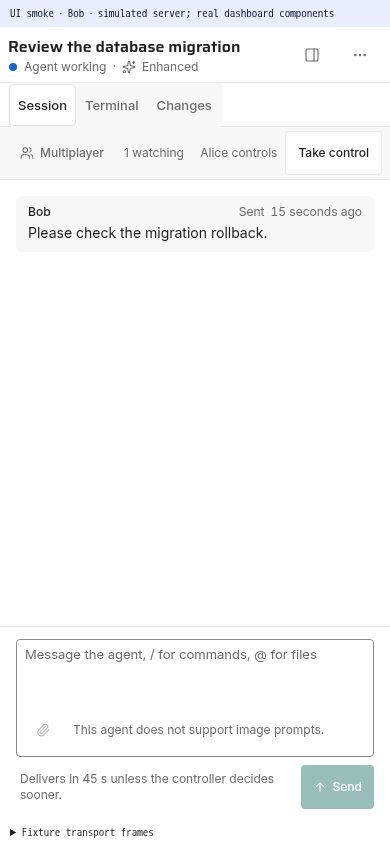
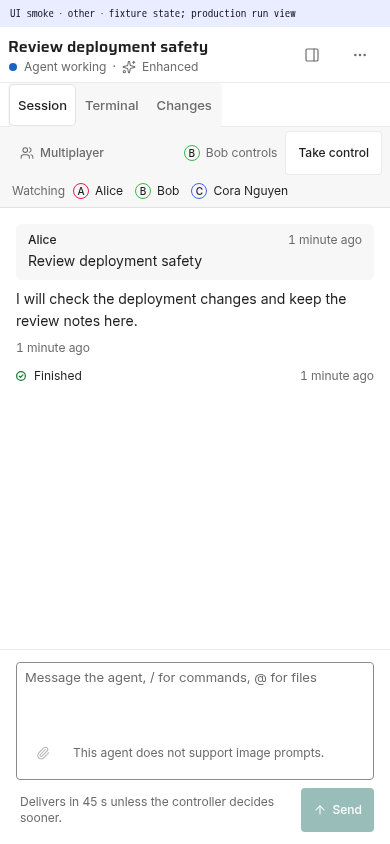
fix(dashboard): show people in enhanced run controls
Controller identity was reduced to status text and watchers to a count.
Show their names and existing member avatars directly in the top bar,
including the local controller's name.

Keep long rosters scrollable without hiding names in Details or crowding
the control actions.

diff --git a/web/src/routes/run/multiplayer-controls.tsx b/web/src/routes/run/multiplayer-controls.tsx
@@ -1,5 +1,6 @@
 import { Shield, Users } from '@/components/icons'
 import { connectionLabel } from '@/components/shell/connection'
+import { Avatar } from '@/components/ui/avatar'
 import { Button } from '@/components/ui/button'
 import { allowed } from '@/lib/permissions'
 import type { AgentTerminal } from '@/routes/run/agent-terminal'
@@ -32,6 +33,7 @@ export function MultiplayerControls({ run, agent, onPeople }: {
   onPeople: () => void
 }) {
   const self = useSelf()
+  const members = useStore((s) => s.members)
   const summary = usePresenceSummary(run, agent)
   const status = useStore((s) => s.roomStatus[run.id])
   const presenceError = useStore((s) => s.roomStatusError[run.id])
@@ -41,30 +43,52 @@ export function MultiplayerControls({ run, agent, onPeople }: {
   const stream = session?.stream ?? 'connecting'
   const controlError = session?.controlError ?? session?.takeoverError
   const connection = stream === 'refused' ? 'Offline' : connectionLabel[stream]
+  const controllerID = agent.localControl ? self.id : status?.controller?.member_id
+  const controller = controllerID ? members[controllerID] : undefined
+  const controllerName = controller?.display_name ?? controllerID
+  const controllerSummary = controllerID === self.id && controllerName ? `${controllerName} · ${summary}` : summary
+  const staleWatchers = stream !== 'live' || Boolean(presenceError)
 
   return (
-    <div role="group" aria-label="Multiplayer controls" className="shrink-0 border-b border-seam bg-chrome px-2 py-1">
+    <div role="group" aria-label="Multiplayer controls" className="@container/multiplayer shrink-0 border-b border-seam bg-chrome px-2 py-1">
       <div className="flex min-w-0 flex-wrap items-center gap-x-2 gap-y-1">
         <Button size="sm" variant="ghost" hint="See people and notes for this run" onClick={onPeople}>
           <Users />
           Multiplayer
         </Button>
-        {status && !presenceError && <span className="text-ui-sm text-muted">{status.watchers.length} watching</span>}
-        {run.protected && <span className="inline-flex items-center gap-1 text-ui-sm text-muted"><Shield />Protected</span>}
-        <span className="ml-auto min-w-0 break-words text-ui-sm text-muted">
-          {agent.steerable ? summary : agent.starting ? 'Starting…' : 'Run finished · read-only'}
-        </span>
-        {agent.steerable && stream !== 'live' && <span className="text-ui-sm text-state-needs-you">{connection}</span>}
-        {agent.steerable && maySteer && (
-          <ControlButton
-            ownsControl={agent.localControl}
-            unavailable={agent.controlUnavailable || Boolean(run.switching)}
-            onTakeControl={agent.session.takeControl}
-            onReleaseControl={agent.session.releaseControl}
-            takeover={agent.takeover.interaction}
-          />
-        )}
-        {agent.steerable && !maySteer && <span className="text-ui-sm text-muted">View only</span>}
+        <div className="order-last flex w-full min-w-0 items-center gap-2 px-1 py-1 text-ui-sm @[48rem]/multiplayer:order-none @[48rem]/multiplayer:w-auto @[48rem]/multiplayer:flex-1">
+          <span className="shrink-0 text-muted">Watching{status && staleWatchers && ' (last known)'}</span>
+          <div role="group" aria-label="Run watchers" tabIndex={status?.watchers.length ? 0 : undefined} className="flex min-w-0 flex-1 touch-pan-x items-center gap-3 overflow-x-auto whitespace-nowrap">
+            {status ? status.watchers.length > 0 ? status.watchers.map((id) => {
+              const member = members[id]
+              const name = member?.display_name ?? id
+              return (
+                <span key={id} className="inline-flex shrink-0 items-center gap-1.5">
+                  <Avatar name={name} color={member?.color} />
+                  <span>{name}</span>
+                </span>
+              )
+            }) : <span className="text-muted">Nobody</span> : <span className="text-muted">{presenceError ? 'Unavailable' : 'Checking…'}</span>}
+          </div>
+        </div>
+        <div className="ml-auto flex min-w-0 flex-1 items-center justify-end gap-2 @[48rem]/multiplayer:flex-initial">
+          {run.protected && <span className="inline-flex items-center gap-1 text-ui-sm text-muted"><Shield />Protected</span>}
+          <div role="group" aria-label="Run controller" className="flex min-w-0 items-center gap-1.5 text-ui-sm text-muted">
+            {agent.steerable && controllerID && <Avatar name={controllerName ?? controllerID} color={controller?.color} />}
+            <span className="min-w-0 break-words">{agent.steerable ? controllerSummary : agent.starting ? 'Starting…' : 'Run finished · read-only'}</span>
+          </div>
+          {agent.steerable && stream !== 'live' && <span className="text-ui-sm text-state-needs-you">{connection}</span>}
+          {agent.steerable && maySteer && (
+            <ControlButton
+              ownsControl={agent.localControl}
+              unavailable={agent.controlUnavailable || Boolean(run.switching)}
+              onTakeControl={agent.session.takeControl}
+              onReleaseControl={agent.session.releaseControl}
+              takeover={agent.takeover.interaction}
+            />
+          )}
+          {agent.steerable && !maySteer && <span className="text-ui-sm text-muted">View only</span>}
+        </div>
       </div>
       {controlError && <p role="alert" className="px-1 py-1 text-ui-sm text-state-failed">Control request failed: {controlError}</p>}
       {session?.streamError && <p role="status" className="px-1 py-1 text-ui-sm text-state-failed">{session.streamError}</p>}

diff --git a/web/e2e/run-session.spec.ts b/web/e2e/run-session.spec.ts
@@ -109,6 +109,14 @@ test('Enhanced multiplayer keeps moderated messages, deliberate release and time
     const takeControl = bobControls.getByRole('button', { name: 'Take control', exact: true })
     await expect(bobControls).toContainText(`${aliceMember.display_name} controls`)
     await expect(takeControl).toHaveAttribute('aria-disabled', 'false')
+    await expect(aliceControls.getByRole('group', { name: 'Run controller' }).getByRole('img', { name: aliceMember.display_name })).toBeVisible()
+    await expect(aliceControls.getByRole('group', { name: 'Run controller' })).toContainText(aliceMember.display_name)
+    await expect(bobControls.getByRole('group', { name: 'Run controller' }).getByRole('img', { name: aliceMember.display_name })).toBeVisible()
+    const watchers = bobControls.getByRole('group', { name: 'Run watchers' })
+    for (const name of [aliceMember.display_name, bobMember.display_name]) {
+      await expect(watchers.getByText(name, { exact: true })).toBeVisible()
+      await expect(watchers.getByRole('img', { name, exact: true })).toBeVisible()
+    }
 
     for (const controls of [aliceControls, bobControls]) {
       await controls.getByRole('button', { name: 'Multiplayer', exact: true }).click()
@@ -191,6 +199,8 @@ test('Enhanced multiplayer keeps moderated messages, deliberate release and time
     await expect(takeover.getByRole('status')).toContainText('Control transfers automatically')
     await page.screenshot({ path: testInfo.outputPath('enhanced-takeover-review.png') })
     await expect(bobControls.getByRole('button', { name: 'Release', exact: true })).toBeVisible({ timeout: 15_000 })
+    await expect(bobControls.getByRole('group', { name: 'Run controller' }).getByRole('img', { name: bobMember.display_name })).toBeVisible()
+    await expect(bobControls.getByRole('group', { name: 'Run controller' })).toContainText(bobMember.display_name)
     await expect(aliceControls).toContainText(`${bobMember.display_name} controls`)
     await expect(aliceControls.getByRole('button', { name: 'Take control', exact: true })).toBeVisible()
     await bobControls.getByRole('button', { name: 'Release', exact: true }).click()
@@ -209,6 +219,8 @@ test('Enhanced multiplayer keeps moderated messages, deliberate release and time
     await bobPage.setViewportSize({ width: 390, height: 844 })
     await expect(bobControls.getByRole('button', { name: 'Multiplayer', exact: true })).toBeVisible()
     await expect(takeControl).toBeVisible()
+    await expect(watchers.getByText(bobMember.display_name, { exact: true })).toBeVisible()
+    await expect(watchers.getByRole('img', { name: bobMember.display_name, exact: true })).toBeVisible()
     const bounds = await bobControls.boundingBox()
     expect(bounds).not.toBeNull()
     expect(bounds!.x + bounds!.width).toBeLessThanOrEqual(390)

diff --git a/web/src/routes/run/session.test.tsx b/web/src/routes/run/session.test.tsx
@@ -335,6 +335,20 @@ describe('the Enhanced session view', () => {
 })
 
 describe('Enhanced multiplayer controls', () => {
+  it('keeps the controller identity tied to the acknowledged lease while presence catches up', async () => {
+    vi.spyOn(api, 'runRoomStatus').mockResolvedValue(occupiedRoom)
+    open()
+    const session = acpSocket().open({ has_control: true, control_generation: 4 })
+    const controller = within(await screen.findByRole('group', { name: 'Run controller' }))
+    expect(controller.getByRole('img', { name: alice.display_name })).toBeDefined()
+    expect(controller.queryByRole('img', { name: bob.display_name })).toBeNull()
+    expect(controller.getByText(/Alice.*You control/)).toBeDefined()
+    session.send({ type: 'control', has_control: false, control_generation: 4, revocation_reason: 'takeover' })
+    expect(await controller.findByRole('img', { name: bob.display_name })).toBeDefined()
+    expect(controller.queryByRole('img', { name: alice.display_name })).toBeNull()
+    expect(screen.getByRole('button', { name: 'Take control' })).toBeDefined()
+  })
+
   it('releases the acknowledged lease without closing the session and remains reachable on Terminal', async () => {
     const view = open()
     const session = acpSocket().open({ has_control: true, control_generation: 4 })

diff --git a/docs/dashboard-frontend.md b/docs/dashboard-frontend.md
@@ -1356,12 +1356,17 @@ with the composer focused the header keeps only the title line.
 
 Enhanced runs render `MultiplayerControls` (`routes/run/multiplayer-controls.tsx`)
 below the view switch at frame level, so Session, Terminal, Changes and
-Browser share one control surface. It shows the controller, watcher count,
-protection and the existing `ControlButton`: take a free lease, release it,
-or hold for five seconds to request an occupied lease. **Multiplayer**
-opens Details at the people on the run; notes stay in the same panel.
-The strip wraps on narrow screens. Control and presence failures stay beside
-the action rather than inside a closed composer.
+Browser share one control surface. It shows the controller and every watcher
+with their member name and `Avatar`, protection and the existing
+`ControlButton`: take a free lease, release it, or hold for five seconds to
+request an occupied lease. A local lease acknowledgement takes precedence
+over polled controller metadata; the controller's name remains visible
+beside **You control** or **You control in another tab**.
+**Multiplayer** still opens Details for shared notes and run facts.
+The watcher roster moves below the controls when the strip is narrow and
+scrolls horizontally rather than replacing names with a count. Offline or
+failed presence reads mark the retained roster **(last known)**. Control and
+presence failures stay beside the action rather than inside a closed composer.
 
 ACP control uses the same server-timed hold, seven-second holder dialog,
 cancellation and server acknowledgement as Standard runs. Streaming updates

diff --git a/docs/enhanced-runs.md b/docs/enhanced-runs.md
@@ -132,14 +132,17 @@ The [rendering capture](media/acp-reasoning-markdown.png) shows production
 timeline components with fixture ACP items, not a live agent.
 
 The **Multiplayer** strip stays below the view switch, including on Terminal
-and Changes. It shows who controls the agent, how many people are watching,
-and **Take control** or **Release**. Select **Multiplayer** to see the people
-and shared notes in Details. Hold **Take control** for five seconds to
+and Changes. It shows the controller's name and avatar, each watcher's name
+and avatar, and **Take control** or **Release**. Your name stays visible when
+you control the run. On narrow screens the watcher roster moves to its own
+row; longer rosters scroll horizontally without opening Details.
+Select **Multiplayer** for shared notes and run details.
+Hold **Take control** for five seconds to
 request an occupied run; the holder has seven seconds to accept or deny
 before control transfers. See [Run control](terminal.md#run-control) for
 cancellation, permissions and reconnect behavior.
 
-![Enhanced multiplayer controls and shared notes](media/enhanced-multiplayer-controls.webp)
+![Controller and watcher identities in the Enhanced run top bar](media/enhanced-multiplayer-controls.webp)
 
 ![The Enhanced holder's timed takeover decision](media/enhanced-multiplayer-takeover.webp)
 

diff --git a/docs/styles.md b/docs/styles.md
@@ -267,10 +267,13 @@ Changes, Browser) is a segmented tab list. Details is a 320px side panel at
 1280px and wider, a side sheet below that and a bottom sheet on phones; it
 never overlays the terminal on wide screens. Standard runs keep control in
 the terminal toolbar; Enhanced runs keep a compact **Multiplayer** strip
-below the view switch on every view. Takeover progress uses `state-failed`
-with `on-failed` text in both themes. One run-owned holder decision dialog
-sits above every sheet and dialog. Request cards use the needs-you soft fill;
-the Session column is 736px wide with no row borders.
+below the view switch on every view. Names and member avatars identify the
+controller and watchers directly in that strip. On narrow strips the watcher
+roster gets its own horizontally scrollable row; control actions stay separate.
+Takeover progress uses `state-failed` with `on-failed` text in both themes.
+One run-owned holder decision dialog sits above every sheet and dialog.
+Request cards use the needs-you soft fill; the Session column is 736px wide
+with no row borders.
 
 ## Run state and motion
 

diff --git a/docs/terminal.md b/docs/terminal.md
@@ -93,10 +93,11 @@ same one: holding it from the Session view (`/ws/acp/<run_id>`) is what lets
 you answer the agent's permission requests.
 
 Enhanced runs keep a **Multiplayer** strip below the view switch on every
-view. It names the controller, shows how many people are watching, and
-offers **Take control** or **Release**. **Multiplayer** opens Details with
-the people on the run and its shared notes. Run shells keep their own
-separate controls; opening a shell does not take control of the agent.
+view. The controller and watchers appear by name with their member avatars,
+alongside **Take control** or **Release**. Watchers move to a separate,
+horizontally scrollable row on narrow screens. **Multiplayer** opens Details
+with shared notes and run facts. Run shells keep their own separate
+controls; opening a shell does not take control of the agent.
 
 The **run** has one controller session at a time. A member needs
 permission to message the run (the `steer` permission) to acquire it.
